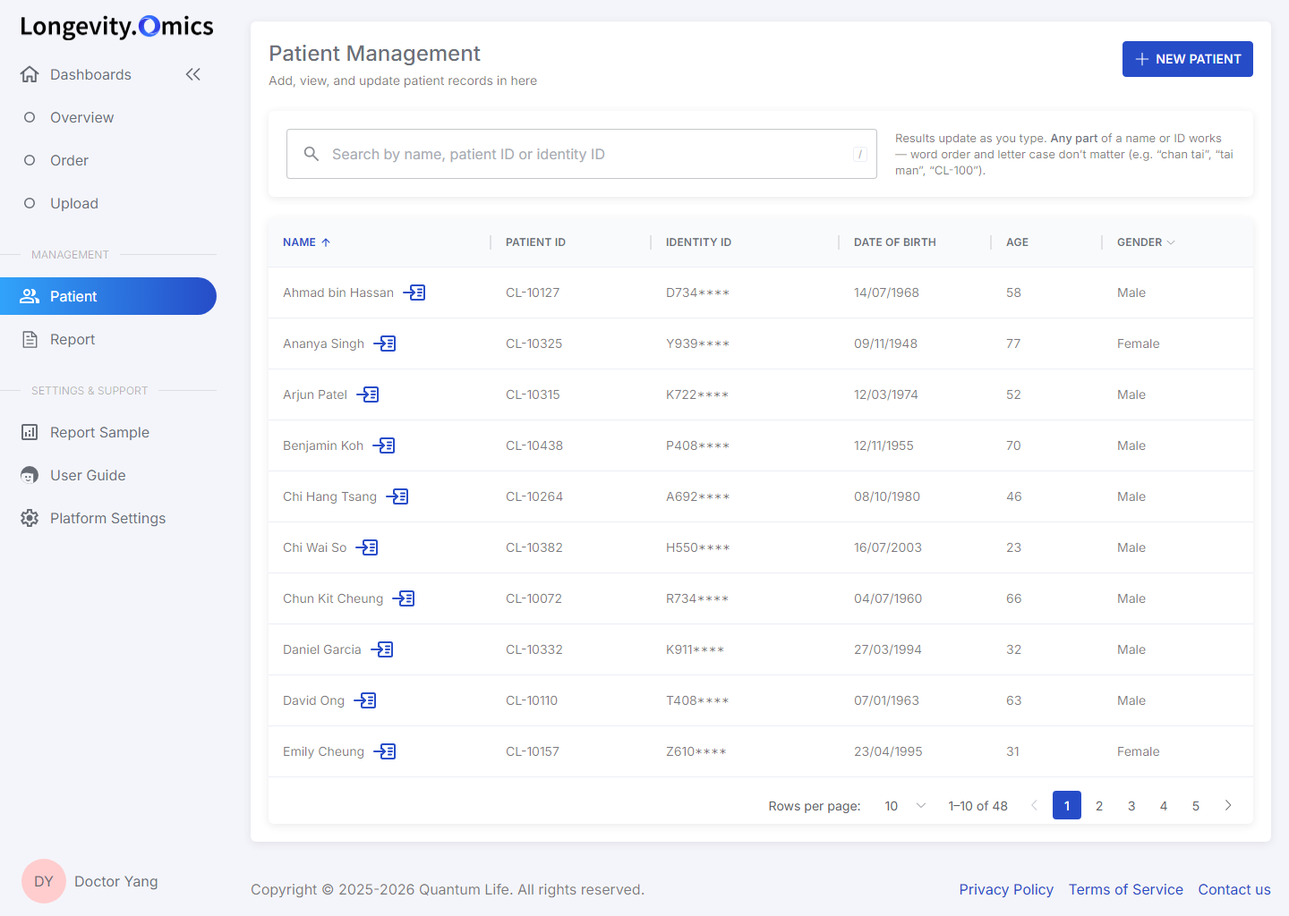
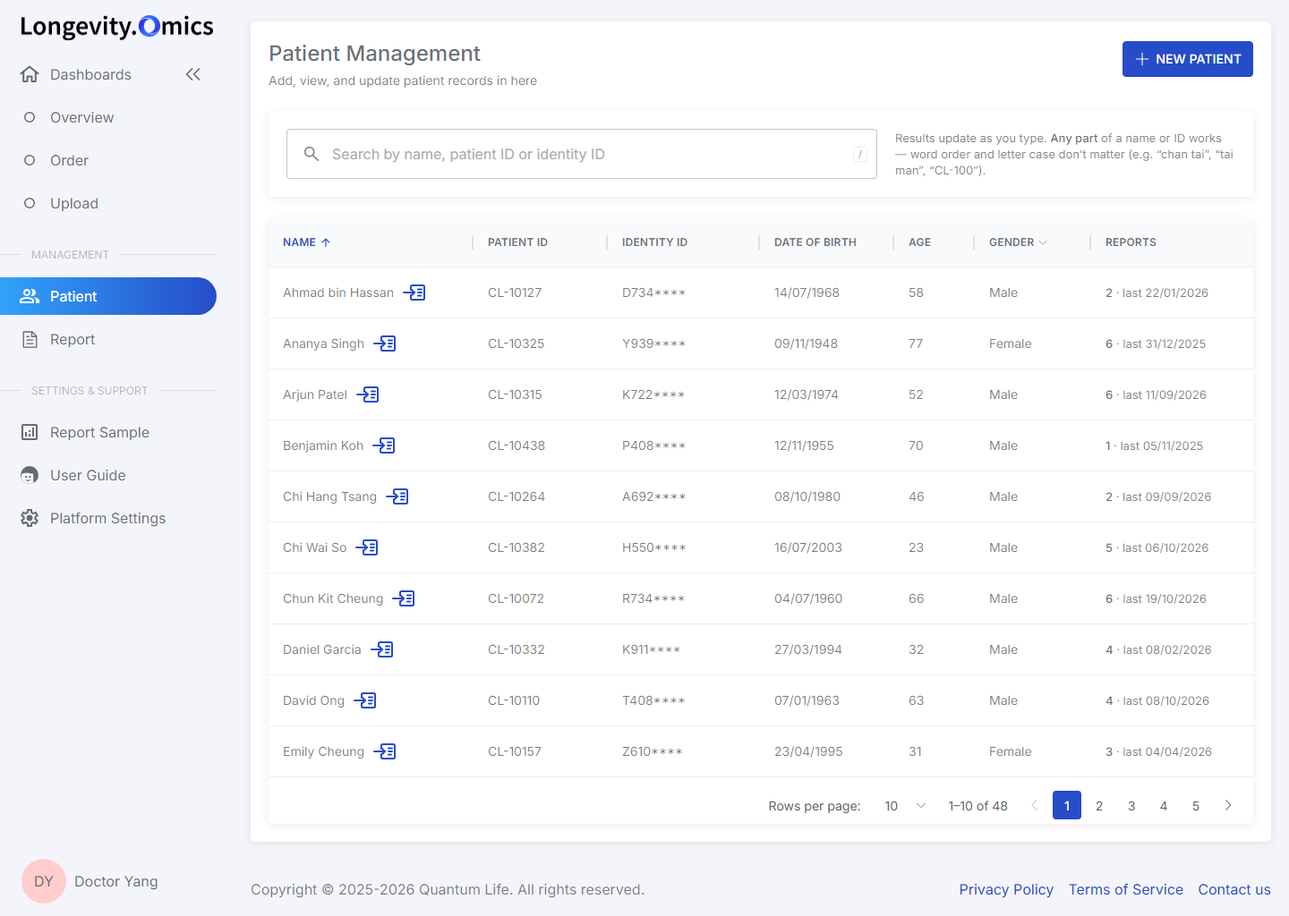
Patient file with full report history, locked rows for other doctors, re-order rule in New Report
- Patient detail: one chronological report history (all doctors), lock + note on rows ordered by others
- New Report modal: Gen-Decoder warns when one exists (one-time test), Epi-Insight shows last date, Omni-Health checks prerequisites
- Report Management now lists only reports ordered by this doctor; subtitle and secondary entry point
- Patient list: Reports column (count + last date)

diff --git a/index.html b/index.html
@@ -199,13 +199,47 @@ mark{background:#E1E9FC;color:var(--primary);font-weight:500;border-radius:2px;p
 .p-grid{display:grid;grid-template-columns:repeat(4,1fr);gap:18px 24px;margin-top:18px}
 .p-grid .k{font-size:11px;letter-spacing:.4px;text-transform:uppercase;color:var(--text-3)}
 .p-grid .v{font-size:14px;color:var(--text);margin-top:4px}
-.svc{display:grid;grid-template-columns:repeat(3,1fr);gap:20px;margin-top:24px}
-.svc .box{padding:16px 20px 12px;min-height:150px}
-.svc .box h4{font-size:16px;line-height:20px;font-weight:500;color:var(--text);display:flex;justify-content:space-between;align-items:center;margin-bottom:10px}
-.svc .r{display:flex;align-items:center;gap:10px;height:44px;border-top:1px solid var(--border-light);font-size:13px;color:var(--text-2)}
-.svc .r .d{margin-left:auto}
-.svc .r .btn{height:28px;padding:0 8px;font-size:11px}
-.svc .none{font-size:13px;color:var(--text-3);padding:10px 0}
+.hist{margin-top:24px}
+.hist-head{display:flex;align-items:flex-start;justify-content:space-between;gap:16px;padding:20px 20px 16px}
+.hist-head h3{font-size:18px;line-height:24px;font-weight:500;color:var(--text)}
+.hist-sub{font-size:13px;line-height:18px;color:var(--text-2);margin-top:4px}
+.hist-sum{display:flex;gap:8px;margin-top:12px;flex-wrap:wrap}
+.hist-sum .tag{height:24px}
+.tag.none{color:var(--text-3);background:var(--disabled-bg);font-weight:400}
+.tag.bt{color:#5C6470;background:#EEF0F4}
+.hist thead th{border-radius:0;border-top:1px solid var(--border-light)}
+.hist tbody tr:last-child td{border-bottom:0}
+tr.other td{color:var(--text-3)}
+tr.other .tag{opacity:.75}
+.by{display:inline-flex;align-items:center;gap:6px}
+.by svg,.locked-note svg{width:14px;height:14px;flex:none}
+.locked-note{font-size:12px;color:var(--text-3);display:inline-flex;align-items:center;gap:6px}
+.rep-cell{font-size:13px}.rep-cell b{font-weight:500;color:var(--text)}.rep-cell.none{color:var(--text-3)}
+.overlay{position:absolute;left:260px;top:0;right:0;bottom:0;background:rgba(0,0,0,.5);z-index:80;display:flex;align-items:center;justify-content:center}
+.modal{width:600px;background:#fff;border-radius:6px;box-shadow:0 12px 32px 4px #0000000A,0 8px 20px #00000014;padding:16px}
+.m-head{display:flex;align-items:flex-start;justify-content:space-between;margin-bottom:14px}
+.m-title{font-size:18px;line-height:24px;font-weight:500;color:var(--text)}
+.m-sub{font-size:13px;color:var(--text-2);margin-top:2px}
+.m-close{width:28px;height:28px;border:0;background:none;color:var(--muted);cursor:pointer;border-radius:4px;display:flex;align-items:center;justify-content:center}
+.m-close svg{width:16px;height:16px}
+.m-close:hover{background:var(--hover);color:var(--text)}
+.opts{display:flex;flex-direction:column;gap:10px}
+.opt{display:flex;align-items:flex-start;gap:12px;padding:12px 14px;border:1px solid var(--border-light);border-radius:6px;cursor:pointer;transition:border-color .15s,background .15s}
+.opt:hover{border-color:#C9D4F5}
+.opt.sel{border-color:var(--primary);background:#F7F9FF}
+.opt .radio{width:16px;height:16px;border-radius:50%;border:1px solid var(--border);margin-top:1px;flex:none;position:relative;background:#fff}
+.opt.sel .radio{border-color:var(--primary);background:var(--primary)}
+.opt.sel .radio::after{content:"";position:absolute;inset:4px;border-radius:50%;background:#fff}
+.o-name{font-size:14px;font-weight:500;color:var(--text)}
+.o-desc{font-size:12px;line-height:16px;color:var(--text-2);margin-top:2px;max-width:400px}
+.o-have{margin-left:auto;font-size:12px;color:var(--text-2);white-space:nowrap;padding-top:2px}
+.note{margin-top:14px;border-radius:4px;padding:10px 12px;font-size:13px;line-height:18px;display:flex;gap:8px}
+.note b{font-weight:500}
+.note svg{width:16px;height:16px;flex:none;margin-top:1px}
+.note.info{background:var(--info-bg);color:#1B368F}
+.note.warn{background:var(--warning-bg);color:#8A5200}
+.note.warn svg{color:var(--warning)}
+.m-foot{display:flex;justify-content:flex-end;gap:12px;margin-top:16px}
 
 /* toast */
 .toast{position:absolute;left:50%;bottom:84px;transform:translateX(-50%) translateY(8px);background:#303133;color:#fff;padding:10px 16px;border-radius:6px;font-size:13px;opacity:0;pointer-events:none;transition:opacity .2s,transform .2s;z-index:100;white-space:nowrap}
@@ -274,7 +308,7 @@ mark{background:#E1E9FC;color:var(--primary);font-weight:500;border-radius:2px;p
 
         <div class="card tcard" id="p-tcard">
           <table>
-            <colgroup><col style="width:249px"><col style="width:179px"><col style="width:210px"><col style="width:170px"><col style="width:124px"><col style="width:168px"></colgroup>
+            <colgroup><col style="width:229px"><col style="width:150px"><col style="width:170px"><col style="width:150px"><col style="width:90px"><col style="width:130px"><col style="width:181px"></colgroup>
             <thead><tr>
               <th><span class="th-btn" data-sort="name">Name<svg class="sort-ic" viewBox="0 0 24 24"><path fill="currentColor" d="M11 20V7.825l-5.6 5.6L4 12l8-8l8 8l-1.4 1.425l-5.6-5.6V20z"/></svg></span></th>
               <th><span class="th-btn" data-sort="pid">Patient ID<svg class="sort-ic" viewBox="0 0 24 24"><path fill="currentColor" d="M11 20V7.825l-5.6 5.6L4 12l8-8l8 8l-1.4 1.425l-5.6-5.6V20z"/></svg></span></th>
@@ -282,6 +316,7 @@ mark{background:#E1E9FC;color:var(--primary);font-weight:500;border-radius:2px;p
               <th><span class="th-btn" data-sort="dob">Date of Birth<svg class="sort-ic" viewBox="0 0 24 24"><path fill="currentColor" d="M11 20V7.825l-5.6 5.6L4 12l8-8l8 8l-1.4 1.425l-5.6-5.6V20z"/></svg></span></th>
               <th><span class="th-btn" data-sort="age">Age<svg class="sort-ic" viewBox="0 0 24 24"><path fill="currentColor" d="M11 20V7.825l-5.6 5.6L4 12l8-8l8 8l-1.4 1.425l-5.6-5.6V20z"/></svg></span></th>
               <th><span class="th-btn" data-filter="gender" id="p-f-gender">Gender<svg class="caret" viewBox="0 0 1024 1024"><path fill="currentColor" d="M831.9 340.9L512 652.7L192.1 340.9a30.6 30.6 0 0 0-42.7 0a29 29 0 0 0 0 41.6l340.3 331.7a32 32 0 0 0 44.6 0l340.3-331.7a29 29 0 0 0 0-41.7a30.6 30.6 0 0 0-42.7 0z"/></svg></span></th>
+              <th>Reports</th>
             </tr></thead>
             <tbody id="p-body"></tbody>
           </table>
@@ -294,11 +329,11 @@ mark{background:#E1E9FC;color:var(--primary);font-weight:500;border-radius:2px;p
         <div class="page-head">
           <div>
             <h1 class="title">Report Management</h1>
-            <p class="subtitle">View all your patient reports in one place</p>
+            <p class="subtitle">Reports you ordered, across all patients. Open a row for the patient’s full file.</p>
           </div>
           <div class="head-actions">
             <button class="btn plain" data-toast="“Upload body test” page is unchanged in this prototype"><svg viewBox="0 0 1024 1024"><path fill="currentColor" d="M160 832h704a32 32 0 1 1 0 64H160a32 32 0 1 1 0-64m384-578.3V704h-64V247.3L237.2 490L192 444.8L508.8 128l316.8 316.8l-45.3 45.2z"/></svg>Upload Body Test</button>
-            <button class="btn" data-toast="“New report” (order) flow is unchanged in this prototype"><svg viewBox="0 0 1024 1024"><path fill="currentColor" d="M480 480V128a32 32 0 0 1 64 0v352h352a32 32 0 1 1 0 64H544v352a32 32 0 1 1-64 0V544H128a32 32 0 0 1 0-64z"/></svg>New Report</button>
+            <button class="btn plain" data-toast="Opens the patient picker, then the order form (unchanged in this prototype). Ordering from the patient’s file skips the picker."><svg viewBox="0 0 1024 1024"><path fill="currentColor" d="M480 480V128a32 32 0 0 1 64 0v352h352a32 32 0 1 1 0 64H544v352a32 32 0 1 1-64 0V544H128a32 32 0 0 1 0-64z"/></svg>New Report</button>
           </div>
         </div>
 
@@ -410,19 +445,25 @@ const patients = NAMES.map((n, i) => {
 const reports = [];
 const start = new Date(2025, 2, 1).getTime(), span = TODAY.getTime() - start;
 patients.forEach(p => {
-  const k = pick([1,1,2,2,2,3,3,4,5]);
+  const k = pick([1,1,2,2,2,3,3,4,5]); let hasGD = false;
   for (let j = 0; j < k; j++) {
-    const r = R(); const t = r < .42 ? TYPES[0] : r < .76 ? TYPES[1] : TYPES[2];
+    const r = R(); let t = r < .42 ? TYPES[0] : r < .76 ? TYPES[1] : TYPES[2];
+    if (t === TYPES[0]) { if (hasGD) t = TYPES[1]; hasGD = true; }   // Gen-Decoder is a one-time test
     const recent = R() < .09;
     const date = recent ? new Date(TODAY.getTime() - R() * 18 * 864e5) : new Date(start + R() * span * .985);
     const daysOld = (TODAY - date) / 864e5;
     let status = "Available";
     if (daysOld < 4) status = "Ordered"; else if (daysOld < 18) status = "In Progress"; else if (R() < .02) status = "In Progress";
-    reports.push({ pid: p.pid, name: p.name, type: t[0], code: t[1], cls: t[2], date, status, patient: p });
+    reports.push({ pid: p.pid, name: p.name, type: t[0], code: t[1], cls: t[2], date, status, patient: p, mine: R() < .72 });
   }
 });
 reports.sort((a, b) => a.date - b.date);
 reports.forEach((r, i) => { r.rid = r.code + "-" + String(r.date.getFullYear()).slice(2) + pad(r.date.getMonth()+1,2) + "-" + pad(i + 1, 4); });
+// Body-test PDFs uploaded for a patient: part of the patient file, not of the ordered-reports worklist
+const bodyTests = [];
+patients.forEach(p => { if (R() < .55) { const c = R() < .3 ? 2 : 1; for (let j = 0; j < c; j++) bodyTests.push({ pid: p.pid, name: p.name, type: "Body Test", code: "BT", cls: "bt", date: new Date(start + R() * span * .98), status: "Available", mine: R() < .75, rid: "\u2014", patient: p }); } });
+// Report Management lists only what this doctor ordered
+const myReports = reports.filter(r => r.mine);
 
 /* =====================================================================
    State — kept per page so that Back / re-entering restores the view
@@ -446,6 +487,9 @@ const ICON = {
   right: '<svg viewBox="0 0 1024 1024"><path fill="currentColor" d="M340.9 149.3a30.6 30.6 0 0 0 0 42.8L652.7 512L341 831.9a30.6 30.6 0 0 0 0 42.7a29 29 0 0 0 41.7 0l331.6-340.3a32 32 0 0 0 0-44.6L382.6 149.4a29 29 0 0 0-41.7 0z"/></svg>',
   download: '<svg viewBox="0 0 1024 1024"><path fill="currentColor" d="M160 832h704a32 32 0 1 1 0 64H160a32 32 0 1 1 0-64m384-253.7L780.3 342l45.2 45.2L508.8 704L192 387.2l45.2-45.2L480 584.7V128h64z"/></svg>',
   enter: '<svg viewBox="0 0 26 20" fill="none" stroke="currentColor" stroke-width="2" stroke-linecap="round" stroke-linejoin="round"><path d="M9 7V3.5A1.5 1.5 0 0 1 10.5 2h12A1.5 1.5 0 0 1 24 3.5v13a1.5 1.5 0 0 1-1.5 1.5h-12A1.5 1.5 0 0 1 9 16.5V13"/><path d="M1 10h12"/><path d="M10 7l3 3-3 3"/><path d="M17 6.5h4M17 10h4M17 13.5h3"/></svg>',
+  lock: '<svg viewBox="0 0 24 24" fill="none" stroke="currentColor" stroke-width="2" stroke-linecap="round"><rect x="5" y="11" width="14" height="10" rx="2"/><path d="M8 11V7a4 4 0 0 1 8 0v4"/></svg>',
+  info: '<svg viewBox="0 0 24 24" fill="none" stroke="currentColor" stroke-width="2" stroke-linecap="round"><circle cx="12" cy="12" r="9"/><path d="M12 11v5M12 8h.01"/></svg>',
+  warn: '<svg viewBox="0 0 24 24" fill="none" stroke="currentColor" stroke-width="2" stroke-linecap="round" stroke-linejoin="round"><path d="M12 3 2 21h20L12 3z"/><path d="M12 10v4M12 17h.01"/></svg>',
   search: '<svg viewBox="0 0 24 24"><path fill="currentColor" d="m19.6 21l-6.3-6.3q-.75.6-1.725.95T9.5 16q-2.725 0-4.612-1.888T3 9.5t1.888-4.612T9.5 3t4.613 1.888T16 9.5q0 1.1-.35 2.075T14.7 13.3l6.3 6.3zM9.5 14q1.875 0 3.188-1.312T14 9.5t-1.312-3.187T9.5 5T6.313 6.313T5 9.5t1.313 3.188T9.5 14"/></svg>'
 };
 
@@ -493,7 +537,7 @@ function openMenu(anchor, container, items, onPick, opts={}){
 }
 document.addEventListener("click", e => { if (openDD && !openDD.el.contains(e.target) && !openDD.anchor.contains(e.target)) closeDD(); });
 document.addEventListener("keydown", e => {
-  if (e.key === "Escape") { closeDD(); const a = document.activeElement; if (a && a.tagName === "INPUT") { if (a.value) { a.value = ""; a.dispatchEvent(new Event("input")); } else a.blur(); } }
+  if (e.key === "Escape") { closeDD(); closeOrder(); const a = document.activeElement; if (a && a.tagName === "INPUT") { if (a.value) { a.value = ""; a.dispatchEvent(new Event("input")); } else a.blur(); } }
   if (e.key === "/" && !["INPUT","TEXTAREA"].includes(document.activeElement.tagName)) { e.preventDefault(); const inp = state.route === "reports" ? $("#r-search") : $("#p-search"); if (state.route !== "detail") inp.focus(); }
 });
 
@@ -528,6 +572,7 @@ function markSort(scope, st){
 const P = state.patients;
 const P_TIP = 'Results update as you type. <b>Any part</b> of a name or ID works — word order and letter case don’t matter (e.g. “chan tai”, “tai man”, “CL-100”).';
 const pGet = { name: p => p.name.toLowerCase(), pid: p => p.pid, dob: p => p.dob.getTime(), age: p => p.age, created: p => p.created };
+const repSummary = p => { const all = reports.filter(r => r.pid === p.pid).concat(bodyTests.filter(b => b.pid === p.pid)); if (!all.length) return '<span class="rep-cell none">No reports</span>'; const last = all.reduce((m, r) => r.date > m ? r.date : m, all[0].date); return '<span class="rep-cell"><b>' + all.length + '</b> · last ' + fmtDate(last) + '</span>'; };
 function renderPatients(){
   const toks = tokens(P.q);
   let list = patients.filter(p => (P.gender === "All" || p.gender === P.gender) && (!toks.length || matches(p.name + " " + p.pid + " " + p.identity + " " + p.first + " " + p.last, toks)));
@@ -536,8 +581,8 @@ function renderPatients(){
   const rows = list.slice((P.page - 1) * P.per, P.page * P.per);
   $("#p-body").innerHTML = rows.length ? rows.map(p => '<tr class="row" data-pid="' + p.pid + '">' +
       '<td><span class="name-cell"><span>' + hl(p.name, toks) + '</span><span class="enter" title="Open patient">' + ICON.enter + '</span></span></td>' +
-      '<td>' + hl(p.pid, toks) + '</td><td>' + hl(p.identity, toks) + '</td><td>' + fmtDate(p.dob) + '</td><td>' + p.age + '</td><td>' + p.gender + '</td></tr>').join("")
-    : '<tr><td colspan="6"><div class="empty"><div class="ill">' + ICON.search + '</div>No patients match <b>“' + esc(P.q) + '”</b>' + (P.gender !== "All" ? ' among <b>' + P.gender.toLowerCase() + '</b> patients' : '') + '.<br>Check the spelling, try fewer words, or <button class="link-btn" id="p-reset">clear the search</button></div></td></tr>';
+      '<td>' + hl(p.pid, toks) + '</td><td>' + hl(p.identity, toks) + '</td><td>' + fmtDate(p.dob) + '</td><td>' + p.age + '</td><td>' + p.gender + '</td><td>' + repSummary(p) + '</td></tr>').join("")
+    : '<tr><td colspan="7"><div class="empty"><div class="ill">' + ICON.search + '</div>No patients match <b>“' + esc(P.q) + '”</b>' + (P.gender !== "All" ? ' among <b>' + P.gender.toLowerCase() + '</b> patients' : '') + '.<br>Check the spelling, try fewer words, or <button class="link-btn" id="p-reset">clear the search</button></div></td></tr>';
   // summary + chips
   const filtered = toks.length || P.gender !== "All";
   $("#p-meta").innerHTML = filtered
@@ -569,7 +614,7 @@ function reportTag(r){ return '<span class="tag ' + r.cls + '">' + r.type + '</s
 function statusTag(s){ return '<span class="tag dot ' + STATUS_CLASS[s] + '">' + s + '</span>'; }
 function renderReports(){
   const toks = tokens(Rp.q);
-  const base = reports.filter(r => !toks.length || matches(r.name + " " + r.pid + " " + r.rid + " " + r.patient.identity, toks));
+  const base = myReports.filter(r => !toks.length || matches(r.name + " " + r.pid + " " + r.rid + " " + r.patient.identity, toks));
   const countByStatus = s => base.filter(r => (Rp.type === "All" || r.type === Rp.type) && (s === "All" || r.status === s)).length;
   const countByType = t => base.filter(r => (Rp.status === "All" || r.status === Rp.status) && (t === "All" || r.type === t)).length;
   let list = base.filter(r => (Rp.type === "All" || r.type === Rp.type) && (Rp.status === "All" || r.status === Rp.status));
@@ -584,7 +629,7 @@ function renderReports(){
     : '<tr><td colspan="7"><div class="empty"><div class="ill">' + ICON.search + '</div>No reports match the current search and filters.<br><button class="link-btn" id="r-reset">Clear search and filters</button></div></td></tr>';
   const filtered = toks.length || Rp.type !== "All" || Rp.status !== "All";
   $("#r-meta").innerHTML = filtered
-    ? '<div class="sum"><b>' + total + '</b> of ' + reports.length + ' reports' + (toks.length ? ' match <b>“' + esc(Rp.q) + '”</b>' : '') + '</div><div class="chips">' +
+    ? '<div class="sum"><b>' + total + '</b> of ' + myReports.length + ' reports' + (toks.length ? ' match <b>“' + esc(Rp.q) + '”</b>' : '') + '</div><div class="chips">' +
       (Rp.type !== "All" ? '<span class="chip"><span>Type:</span> ' + Rp.type + '<button data-clear="type" title="Remove">' + ICON.x + '</button></span>' : '') +
       (Rp.status !== "All" ? '<span class="chip"><span>Status:</span> ' + Rp.status + '<button data-clear="status" title="Remove">' + ICON.x + '</button></span>' : '') +
       '<button class="link-btn" id="r-clear-all">Clear all</button></div>'
@@ -621,12 +666,23 @@ function openDetail(pid){
   const p = patients.find(x => x.pid === pid); if (!p) return; const rs = reports.filter(r => r.pid === pid).sort((a, b) => b.date - a.date);
   const initials = (p.first[0] + p.last[0]).toUpperCase();
   const info = [["Patient ID", p.pid],["Name", p.name],["Age", p.age],["Gender", p.gender],["Date of Birth", fmtDate(p.dob)],["Country & Region", p.country],["ID No.", p.identity],["Phone", p.phone]];
-  const row = r => '<div class="r">' + reportTag(r) + statusTag(r.status) + '<span class="d">' + fmtDate(r.date) + '</span><button class="btn plain sm" data-toast="Opens the report detail page (unchanged in this prototype)"' + (r.status === "Available" ? '' : ' disabled') + '>View</button><button class="btn plain sm" data-toast="Downloads the file (not wired in this prototype)"' + (r.status === "Available" ? '' : ' disabled') + '>Download</button></div>';
-  const gen = rs.filter(r => r.type !== "Omni-Health"), omni = rs.filter(r => r.type === "Omni-Health");
+  const hist = rs.concat(bodyTests.filter(b => b.pid === pid)).sort((a, b) => b.date - a.date);
+  const byType = t => hist.filter(x => x.type === t);
+  const sumChip = (label, cls, t) => { const c = byType(t).length; return c ? '<span class="tag ' + cls + '">' + label + ' \u00b7 ' + c + '</span>' : '<span class="tag none">' + label + ' \u00b7 none</span>'; };
+  const canOpen = x => x.mine && x.status === "Available";
+  const hrow = x => '<tr class="hrow' + (x.mine ? '' : ' other') + '">' +
+    '<td>' + reportTag(x) + '</td><td>' + fmtDate(x.date) + '</td><td>' + statusTag(x.status) + '</td>' +
+    '<td><span class="by">' + (x.mine ? 'You' : ICON.lock + 'Other doctor') + '</span></td>' +
+    '<td><span class="rid">' + x.rid + '</span></td>' +
+    '<td>' + (x.mine
+      ? '<div class="actions">' + (x.type === "Body Test" ? '' : '<button class="btn plain sm" data-toast="Opens the report detail page (unchanged in this prototype)"' + (canOpen(x) ? '' : ' disabled') + '>View</button>') + '<button class="btn plain sm icon" title="Download" data-toast="Downloads the file (not wired in this prototype)"' + (canOpen(x) ? '' : ' disabled') + '>' + ICON.download + '</button></div>'
+      : '<span class="locked-note">' + ICON.lock + 'Only the ordering doctor can open this report</span>') + '</td></tr>';
   $("#d-body").innerHTML = '<div class="card p-card"><div class="big-av">' + initials + '</div><div style="flex:1"><div class="p-name">' + esc(p.name) + ' <span class="tag gd">' + p.pid + '</span></div><div class="p-grid">' + info.map(([k, v]) => '<div><div class="k">' + k + '</div><div class="v">' + esc(v) + '</div></div>').join("") + '</div></div></div>' +
-    '<div class="svc"><div class="card box"><h4>Body Test <button class="btn sm" data-toast="“Upload body test” page is unchanged in this prototype">Upload</button></h4><div class="none">No body test uploaded for this patient.</div></div>' +
-    '<div class="card box"><h4>Genetic Report Service</h4>' + (gen.length ? gen.map(row).join("") : '<div class="none">No Gen-Decoder or Epi-Insight report yet.</div>') + '</div>' +
-    '<div class="card box"><h4>Omni-Health Service</h4>' + (omni.length ? omni.map(row).join("") : '<div class="none">No Omni-Health report yet.</div>') + '</div></div>';
+    '<div class="card hist"><div class="hist-head"><div><h3>Report history</h3><div class="hist-sub">Every report on file for this patient, whichever doctor ordered it. You can open the ones you ordered.</div><div class="hist-sum">' + sumChip("Gen-Decoder", "gd", "Gen-Decoder") + sumChip("Epi-Insight", "ei", "Epi-Insight") + sumChip("Omni-Health", "oh", "Omni-Health") + sumChip("Body Test", "bt", "Body Test") + '</div></div>' +
+    '<div class="head-actions"><button class="btn plain" data-toast="\u201cUpload body test\u201d page is unchanged in this prototype">Upload Body Test</button><button class="btn" id="d-new">New Report</button></div></div>' +
+    '<table><colgroup><col style="width:160px"><col style="width:120px"><col style="width:140px"><col style="width:160px"><col style="width:200px"><col style="width:320px"></colgroup><thead><tr><th>Report Type</th><th>Date</th><th>Status</th><th>Ordered By</th><th>Report ID</th><th>Action</th></tr></thead><tbody>' +
+    (hist.length ? hist.map(hrow).join("") : '<tr><td colspan="6"><div class="empty">No reports on file for this patient yet.</div></td></tr>') + '</tbody></table></div>';
+  $("#d-new").addEventListener("click", () => openOrder(pid));
   $("#d-body").querySelectorAll("[data-toast]").forEach(b => b.addEventListener("click", e => { e.stopPropagation(); toast(b.dataset.toast); }));
   const prevSt = state[state.prev]; const bits = [];
   if (prevSt.q) bits.push('search “' + prevSt.q + '”'); if (state.prev === "reports") { if (prevSt.type !== "All") bits.push(prevSt.type); if (prevSt.status !== "All") bits.push(prevSt.status.toLowerCase()); } else if (prevSt.gender !== "All") bits.push(prevSt.gender.toLowerCase());
@@ -634,6 +690,48 @@ function openDetail(pid){
   show("detail");
 }
 $("#d-back").addEventListener("click", () => { show(state.prev, true); });
+
+/* ---------- New report: service picker with the re-order rule (Gen-Decoder once, Epi-Insight repeatable) ---------- */
+function openOrder(pid, pre){
+  const p = patients.find(x => x.pid === pid); if (!p) return;
+  const all = reports.filter(r => r.pid === pid);
+  const have = t => all.filter(r => r.type === t).sort((a, b) => b.date - a.date);
+  const monthsAgo = d => Math.max(0, Math.round((TODAY - d) / (30.44 * 864e5)));
+  const who = r => r.mine ? "ordered by you" : "ordered by another doctor";
+  const SVCS = [
+    ["Gen-Decoder", "gd", "Whole-genome report: disease risk, pharmacogenomics and lifestyle. A one-time test, because genetic results do not change."],
+    ["Epi-Insight", "ei", "Epigenetic age and aging-rate report. Meant to be repeated, so change over time can be tracked."],
+    ["Omni-Health", "oh", "Integrated analysis of clinical, genetic and epigenetic profiles with an action plan. Built from the patient\u2019s Gen-Decoder, Epi-Insight and body test."]
+  ];
+  let sel = SVCS.some(x => x[1] === pre) ? pre : "gd";
+  const ov = document.createElement("div"); ov.className = "overlay"; ov.id = "overlay";
+  const render = () => {
+    const svc = SVCS.find(x => x[1] === sel); const prior = have(svc[0]);
+    let note = "", label = "Continue", disabled = false;
+    if (sel === "gd") {
+      if (prior.length) { const r = prior[0]; note = '<div class="note warn">' + ICON.warn + '<div><b>This patient already has a Gen-Decoder report</b> (' + r.status + ' \u00b7 ' + fmtDate(r.date) + ' \u00b7 ' + who(r) + '). Genetic results do not change, so a second test is rarely needed.' + (r.mine ? '' : ' You cannot open that report because another doctor ordered it.') + '</div></div>'; label = "Order anyway"; }
+      else note = '<div class="note info">' + ICON.info + '<div>No Gen-Decoder on file for this patient. This is a one-time test.</div></div>';
+    } else if (sel === "ei") {
+      if (prior.length) { const r = prior[0]; note = '<div class="note info">' + ICON.info + '<div>Last Epi-Insight: ' + fmtDate(r.date) + ' (' + monthsAgo(r.date) + ' months ago \u00b7 ' + r.status + ' \u00b7 ' + who(r) + '). Epigenetic age changes over time, so repeat testing is expected.</div></div>'; }
+      else note = '<div class="note info">' + ICON.info + '<div>No Epi-Insight on file yet. This one will be the patient\u2019s baseline.</div></div>';
+    } else {
+      const gd = have("Gen-Decoder").find(r => r.status === "Available"), ei = have("Epi-Insight").find(r => r.status === "Available");
+      if (gd && ei) note = '<div class="note info">' + ICON.info + '<div>Will link the patient\u2019s latest Gen-Decoder (' + fmtDate(gd.date) + ') and Epi-Insight (' + fmtDate(ei.date) + '). You choose or upload a body test in the next step.</div></div>';
+      else { note = '<div class="note warn">' + ICON.warn + '<div><b>Omni-Health needs an available Gen-Decoder and Epi-Insight report first.</b> This patient is missing ' + (!gd && !ei ? 'both' : !gd ? 'Gen-Decoder' : 'Epi-Insight') + '.</div></div>'; disabled = true; }
+    }
+    ov.innerHTML = '<div class="modal"><div class="m-head"><div><div class="m-title">New report</div><div class="m-sub">for ' + esc(p.name) + ' \u00b7 ' + p.pid + '</div></div><button class="m-close" title="Close">' + ICON.x + '</button></div>' +
+      '<div class="opts">' + SVCS.map(x => { const c = have(x[0]).length; return '<div class="opt' + (x[1] === sel ? ' sel' : '') + '" data-svc="' + x[1] + '"><span class="radio"></span><div><div class="o-name">' + x[0] + '</div><div class="o-desc">' + x[2] + '</div></div><div class="o-have">' + (c ? c + ' on file' : 'none on file') + '</div></div>'; }).join("") + '</div>' + note +
+      '<div class="m-foot"><button class="btn plain" id="o-cancel">Cancel</button><button class="btn" id="o-go"' + (disabled ? ' disabled' : '') + '>' + label + '</button></div></div>';
+    ov.querySelectorAll(".opt").forEach(o => o.addEventListener("click", () => { sel = o.dataset.svc; render(); }));
+    ov.querySelector(".m-close").addEventListener("click", closeOrder);
+    ov.querySelector("#o-cancel").addEventListener("click", closeOrder);
+    ov.querySelector("#o-go").addEventListener("click", () => { closeOrder(); toast("Continues to the order form with patient and service pre-filled (unchanged in this prototype)"); });
+  };
+  render();
+  ov.addEventListener("click", e => { if (e.target === ov) closeOrder(); });
+  $("#frame").appendChild(ov);
+}
+function closeOrder(){ const o = $("#overlay"); if (o) o.remove(); }
 
 function show(route, restore){
   closeDD(); state.route = route;
@@ -658,6 +756,7 @@ if (qs.get("q")) { if (location.hash === "#reports") { Rp.q = qs.get("q"); $("#r
 if (qs.get("type")) Rp.type = qs.get("type"); if (qs.get("status")) Rp.status = qs.get("status"); if (qs.get("gender")) P.gender = qs.get("gender");
 show(location.hash === "#reports" ? "reports" : "patients");
 if (qs.get("detail")) openDetail(qs.get("detail"));
+if (qs.get("order")) setTimeout(() => openOrder(qs.get("detail"), qs.get("order")), 60);
 if (qs.get("open")) setTimeout(() => $({type: "#r-f-type", status: "#r-f-status", gender: "#p-f-gender", rpp: "#rpp-sel"}[qs.get("open")])?.click(), 50);
 </script>
 </body>

diff --git a/README.md b/README.md
@@ -11,8 +11,8 @@ Patient Management / Report Management 的交互原型（1440×1024 画框，左
 
 ## 文件
 - `index.html` 原型本体（单文件）
-- `screens/` 8 张关键状态截图
+- `screens/` 关键状态截图（列表、搜索、筛选、病人档案、下单提醒）
 - `Manage.png` 当前线上版本的 Figma 参考稿
 
 ## 深链接参数（演示用）
-`?q=chan&type=Omni-Health&status=Available#reports`、`?gender=Female&open=gender#patients`、`?detail=CL-10030#patients`
+`?q=chan&type=Omni-Health&status=Available#reports`、`?gender=Female&open=gender#patients`、`?detail=CL-10127#patients`（病人档案）、`?detail=CL-10127&order=gd#patients`（下单提醒）
